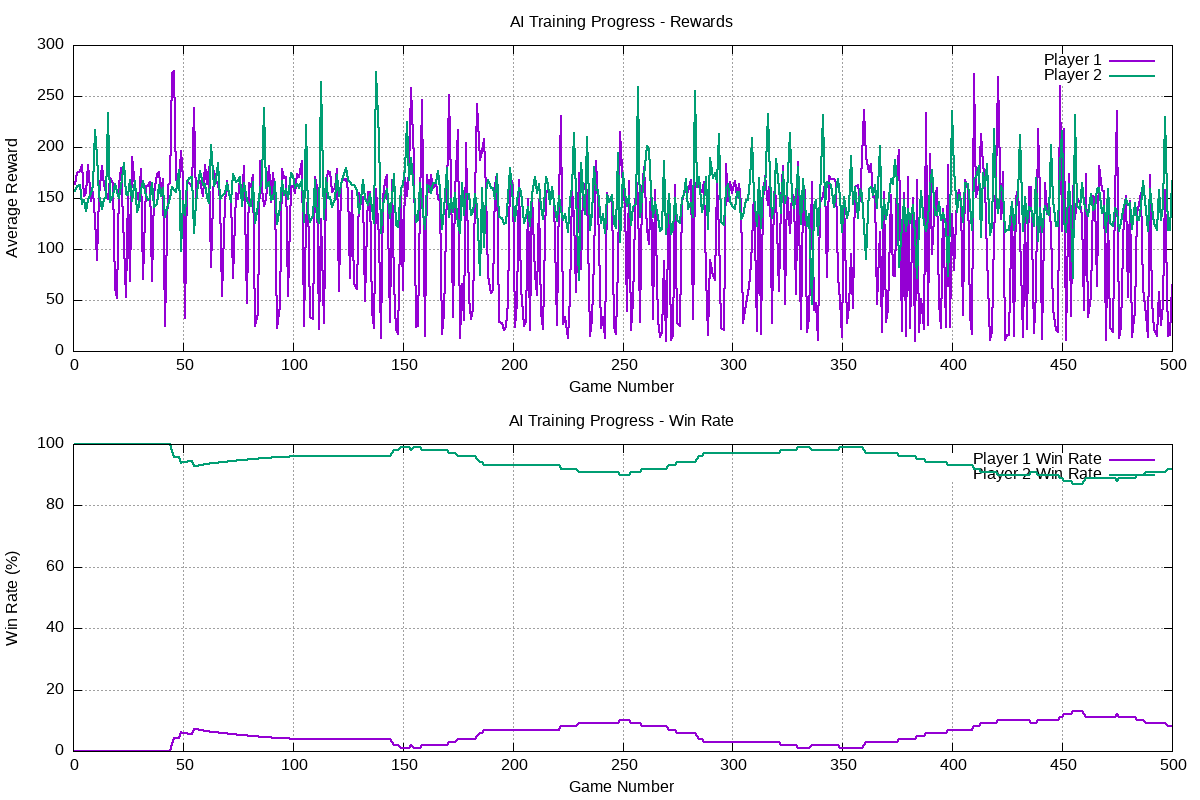
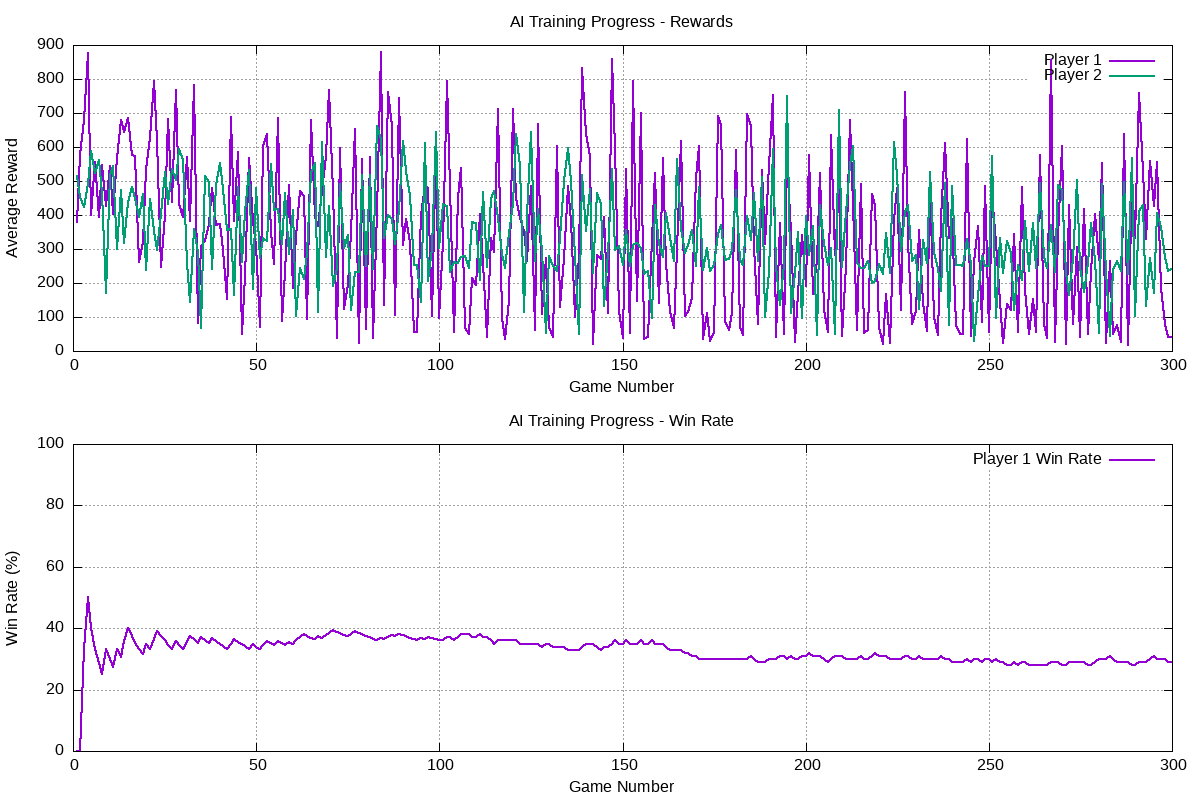
improvements to ai winrate

diff --git a/ai/aiplayer.cc b/ai/aiplayer.cc
@@ -16,8 +16,8 @@
 AIPlayer::AIPlayer(int index, char startingPiece, double learningRate)
     : Player(index, startingPiece), 
       epsilon(1.0),           // Start with high exploration
-      epsilonDecay(0.995),    // Gradually reduce exploration
-      epsilonMin(0.01),       // Minimum exploration
+      epsilonDecay(0.998),    // Slower decay for longer exploration
+      epsilonMin(0.05),       // Higher minimum exploration
       learningRate(learningRate),
       memorySize(2000),
       memoryIndex(0),
@@ -136,7 +136,10 @@ std::vector<std::pair<char, char>> AIPlayer::getAllValidMoves(Board* board) {
                 validMoves.push_back({pieceId, dir});
             }
         }
-        std::cerr << "  Using fallback: generated " << validMoves.size() << " fallback moves" << std::endl;
+        // Only print fallback message if not in training mode
+        if (!trainingMode) {
+            std::cerr << "  Using fallback: generated " << validMoves.size() << " fallback moves" << std::endl;
+        }
     }
     
     return validMoves;
@@ -214,23 +217,30 @@ std::pair<char, char> AIPlayer::chooseMove(Board* board) {
 }
 
 float AIPlayer::calculateReward(Constants::MOVE_RESULT result, bool gameWon, bool gameLost, Board* board, char pieceId) {
-    if (gameWon) return 100.0f;
-    if (gameLost) return -100.0f;
+    if (gameWon) return 200.0f;   // Much higher win reward to incentivize finishing games
+    if (gameLost) return -100.0f; // Asymmetric - losing hurts less than winning helps
+    
+    float reward = 0.0f;
     
     switch (result) {
         case Constants::MOVE_SUCCESS:
-            return 1.0f + calculateGoalProgressReward(board, pieceId);
+            reward = 0.5f + calculateGoalProgressReward(board, pieceId) * 2.0f; // Reduced ongoing rewards
+            reward += calculatePositionalReward(board) * 0.5f; // Reduced positional rewards
+            break;
         case Constants::MOVE_KILLED:
-            return 10.0f + calculateGoalProgressReward(board, pieceId);  // Capturing enemy piece is good
+            reward = 15.0f + calculateGoalProgressReward(board, pieceId) * 2.0f; // Strong capture incentive
+            reward += calculatePositionalReward(board) * 0.5f;
+            break;
         case Constants::MOVE_INVALID:
         case Constants::MOVE_WALL:
         case Constants::MOVE_OWNPIECE:
         case Constants::MOVE_RAT_INVALID:
         case Constants::MOVE_WATER_INVALID:
-            return 0.0f;  // No penalty for invalid moves - just retry
         default:
-            return 0.0f;
+            reward = 0.0f;
     }
+    
+    return reward;
 }
 
 float AIPlayer::calculateGoalProgressReward(Board* board, char pieceId) {
@@ -260,10 +270,45 @@ float AIPlayer::calculateGoalProgressReward(Board* board, char pieceId) {
     float distanceToGoal = abs(pieceRow - goalRow) + abs(pieceCol - goalCol);
     
     // Give reward based on proximity to goal (closer = better)
-    // Max distance is about 10, so we'll give 0.1 to 2.0 reward
-    float proximityReward = std::max(0.1f, 2.0f - 2*(distanceToGoal / 10.0f));
+    // Max distance is about 10, so we'll give 0.2 to 3.0 reward with exponential scaling
+    float normalizedDistance = distanceToGoal / 10.0f;
+    float proximityReward = 3.0f * exp(-2.0f * normalizedDistance); // Exponential decay for stronger gradient
     
-    return proximityReward;
+    return std::max(0.2f, proximityReward);
+}
+
+float AIPlayer::calculatePositionalReward(Board* board) {
+    float reward = 0.0f;
+    int myPieces = 0;
+    int opponentPieces = 0;
+    int myAdvancedPieces = 0; // Pieces closer to opponent's goal
+    
+    // Count pieces and evaluate positioning
+    for (int r = 0; r < board->getLength(); r++) {
+        for (int c = 0; c < board->getWidth(); c++) {
+            GamePiece* piece = board->getTile(r, c)->getPiece();
+            if (piece) {
+                if (piece->getOwner()->getIndex() == getIndex()) {
+                    myPieces++;
+                    // Reward pieces that are advanced toward goal
+                    int targetRow = (getIndex() == 0) ? 8 : 1;
+                    int distanceToGoal = abs(r - targetRow);
+                    if (distanceToGoal < 4) { // Close to goal
+                        myAdvancedPieces++;
+                        reward += 0.1f;
+                    }
+                } else {
+                    opponentPieces++;
+                }
+            }
+        }
+    }
+    
+    // Reward maintaining pieces and piece advancement
+    reward += (myPieces - 8) * 0.05f; // Small bonus for keeping pieces alive
+    reward += myAdvancedPieces * 0.15f; // Bigger bonus for advanced positioning
+    
+    return reward;
 }
 
 void AIPlayer::remember(const std::vector<float>& state, int action, float reward,

diff --git a/ai/aitrain.cc b/ai/aitrain.cc
@@ -36,8 +36,8 @@ int main(int argc, char* argv[]) {
     Controller controller(2, graphics, false, false, true);  // 2 players, training mode
     
     // Set both players as AI
-    controller.setAIPlayer(0, 0.001);  // Player 1 as AI
-    controller.setAIPlayer(1, 0.001);  // Player 2 as AI
+    controller.setAIPlayer(0, 0.005);  // Player 1 as AI with higher learning rate
+    controller.setAIPlayer(1, 0.005);  // Player 2 as AI with higher learning rate
     
     std::cout << "Starting AI training with " << numGames << " games..." << std::endl;
     if (visualize) {

diff --git a/ai/aiplayer.h b/ai/aiplayer.h
@@ -60,6 +60,7 @@ public:
     int actionToIndex(char piece, char direction);
     float calculateReward(Constants::MOVE_RESULT result, bool gameWon, bool gameLost, Board* board = nullptr, char pieceId = '0');
     float calculateGoalProgressReward(Board* board, char pieceId);
+    float calculatePositionalReward(Board* board);
     
     // Override the move method to use AI decision making
     std::pair<char, char> chooseMove(Board* board);

diff --git a/game/controller.cc b/game/controller.cc
@@ -449,7 +449,7 @@ void Controller::trainAI(int numGames) {
         int moves = 0;
         int winner = -1;  // -1 = draw, 0 = player 1, 1 = player 2
         
-        while (!gameOver() && moves < 200) {  // Limit moves to prevent infinite games
+        while (moves < 500) {  // Allow longer games for AI learning
             if (isAIPlayer(currentPlayer)) {
                 handleAITurn();
             }
